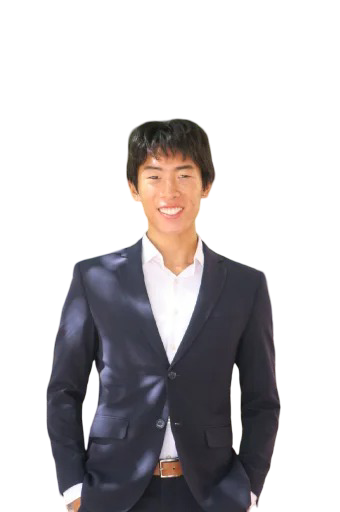
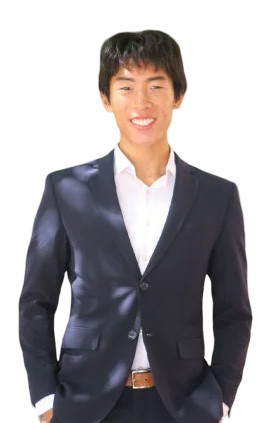
added progress bars

diff --git a/styles.css b/styles.css
@@ -18,6 +18,10 @@
   }
 } */
 
+html {
+  font-family: "verdana", "sans-serif";
+}
+
 @media screen and (max-width: 790px) {
   .topcardholder{
     .card {
@@ -88,7 +92,7 @@
 .topnav {
   overflow: hidden;
   color: #ffffff;
-  font-family: "verdana", "sans-serif";
+  /* font-family: "verdana", "sans-serif"; */
   display: flex; /* Enables Flexbox */
   justify-content: space-between; /* Pushes flex items to the far ends */
   align-items: center;
@@ -105,7 +109,7 @@
   text-align: center;
   padding: 14px 16px;
   text-decoration: none;
-  font-family: "verdana", "sans-serif";
+  /* font-family: "verdana", "sans-serif"; */
 }
 
 .topnav a:hover {
@@ -139,7 +143,7 @@ body {
 }
 
 button {
-    font-family: "verdana", "sans-serif";
+    /* font-family: "verdana", "sans-serif"; */
     background-color: #0065B2;
     color: white;
     border: none;
@@ -155,10 +159,10 @@ button:hover {
     background-color: #ABCAE9;
 }
 
-h1, h2, h3, h4, h5, h6, p {
-    font-family: "verdana", "sans-serif";
+/* h1, h2, h3, h4, h5, h6, p { */
+    /* font-family: "verdana", "sans-serif"; */
     /* color: #ffffff; */
-}
+/* } */
 
 .header-content {
     color: white;
@@ -187,7 +191,7 @@ h1, h2, h3, h4, h5, h6, p {
     color: white;
     text-align: center;
     padding: 20px;
-    font-family: "verdana", "sans-serif";
+    /* font-family: "verdana", "sans-serif"; */
 }
 
 .page {
@@ -382,7 +386,7 @@ h1, h2, h3, h4, h5, h6, p {
 .timelinecontainer a:focus {
   color: black;
   text-decoration: none;
-  font-family: "verdana", "sans-serif";
+  /* font-family: "verdana", "sans-serif"; */
 }
 
 .timelinecontainer a:hover {
@@ -596,4 +600,12 @@ h1, h2, h3, h4, h5, h6, p {
   display: none;
   overflow: hidden;
   font-size: 12px;
+}
+
+.amount-progress {
+  /* font-family: "verdana", "sans-serif"; */
+  border-radius: 7px; 
+  width: 80%;
+  height: 22px;
+  box-shadow: 1px 1px 4px rgba( 0, 0, 0, 0.2 );
 }

diff --git a/MalawiPage.html b/MalawiPage.html
@@ -75,7 +75,12 @@
                 <br>
                 Finalize all preparations for June 2026 Phase 1 implementation</p>
             <h1>Fundraising</h1>
-            <p>Our team raises 100% of the funds needed for project implementation. We combine grassroots efforts in the Urbana-Champaign community with corporate sponsorships and organizational partnerships. These efforts sustain the project financially while building a network of supporters committed to resilient infrastructure in Malawi. Support us here: https://support.ewb-usa.org/team/663710</p>
+            <p>Our team raises 100% of the funds needed for project implementation. We combine grassroots efforts in the Urbana-Champaign community with corporate sponsorships and organizational partnerships. These efforts sustain the project financially while building a network of supporters committed to resilient infrastructure in Malawi. Support us <a href="https://support.ewb-usa.org/team/663710" target="_blank" style="color: black; font-family: 'verdana'">here</a>.</p>
+            <div>
+                <progress class="amount-progress" value="33000" max="45000"></progress>
+                </br>
+                Currently Raised: $33,000 / $45,000
+            </div>
             <h1>Design</h1>
             <p>We conduct hydrologic, hydraulic, geotechnical, and structural calculations to guide every stage of design, from watershed modeling to foundation stability and load analysis. Drafting, grading, and site layouts are completed to professional engineering standards. Our student team uses ArcGIS, AutoCAD, Civil 3D, Excel, HEC-HMS, HEC-RAS, SAP2000, and QGIS. Final designs are reviewed by licensed engineers for safety and code compliance.</p>
             <h1>Construction</h1>

diff --git a/RwandaPage.html b/RwandaPage.html
@@ -71,6 +71,11 @@
                 Get to know our NGO and community through video calls
                 <br>
                 Continue growing our fundraising efforts.</p>
+                <div>
+                <progress class="amount-progress" value="33000" max="45000"></progress>
+                </br>
+                Currently Raised: $33,000 / $45,000
+            </div>
             <h1>Leadership</h1>
             <p>Learn about the talented team that helps manage our organization and ensures that our projects run smoothly!</p>
         </div>
